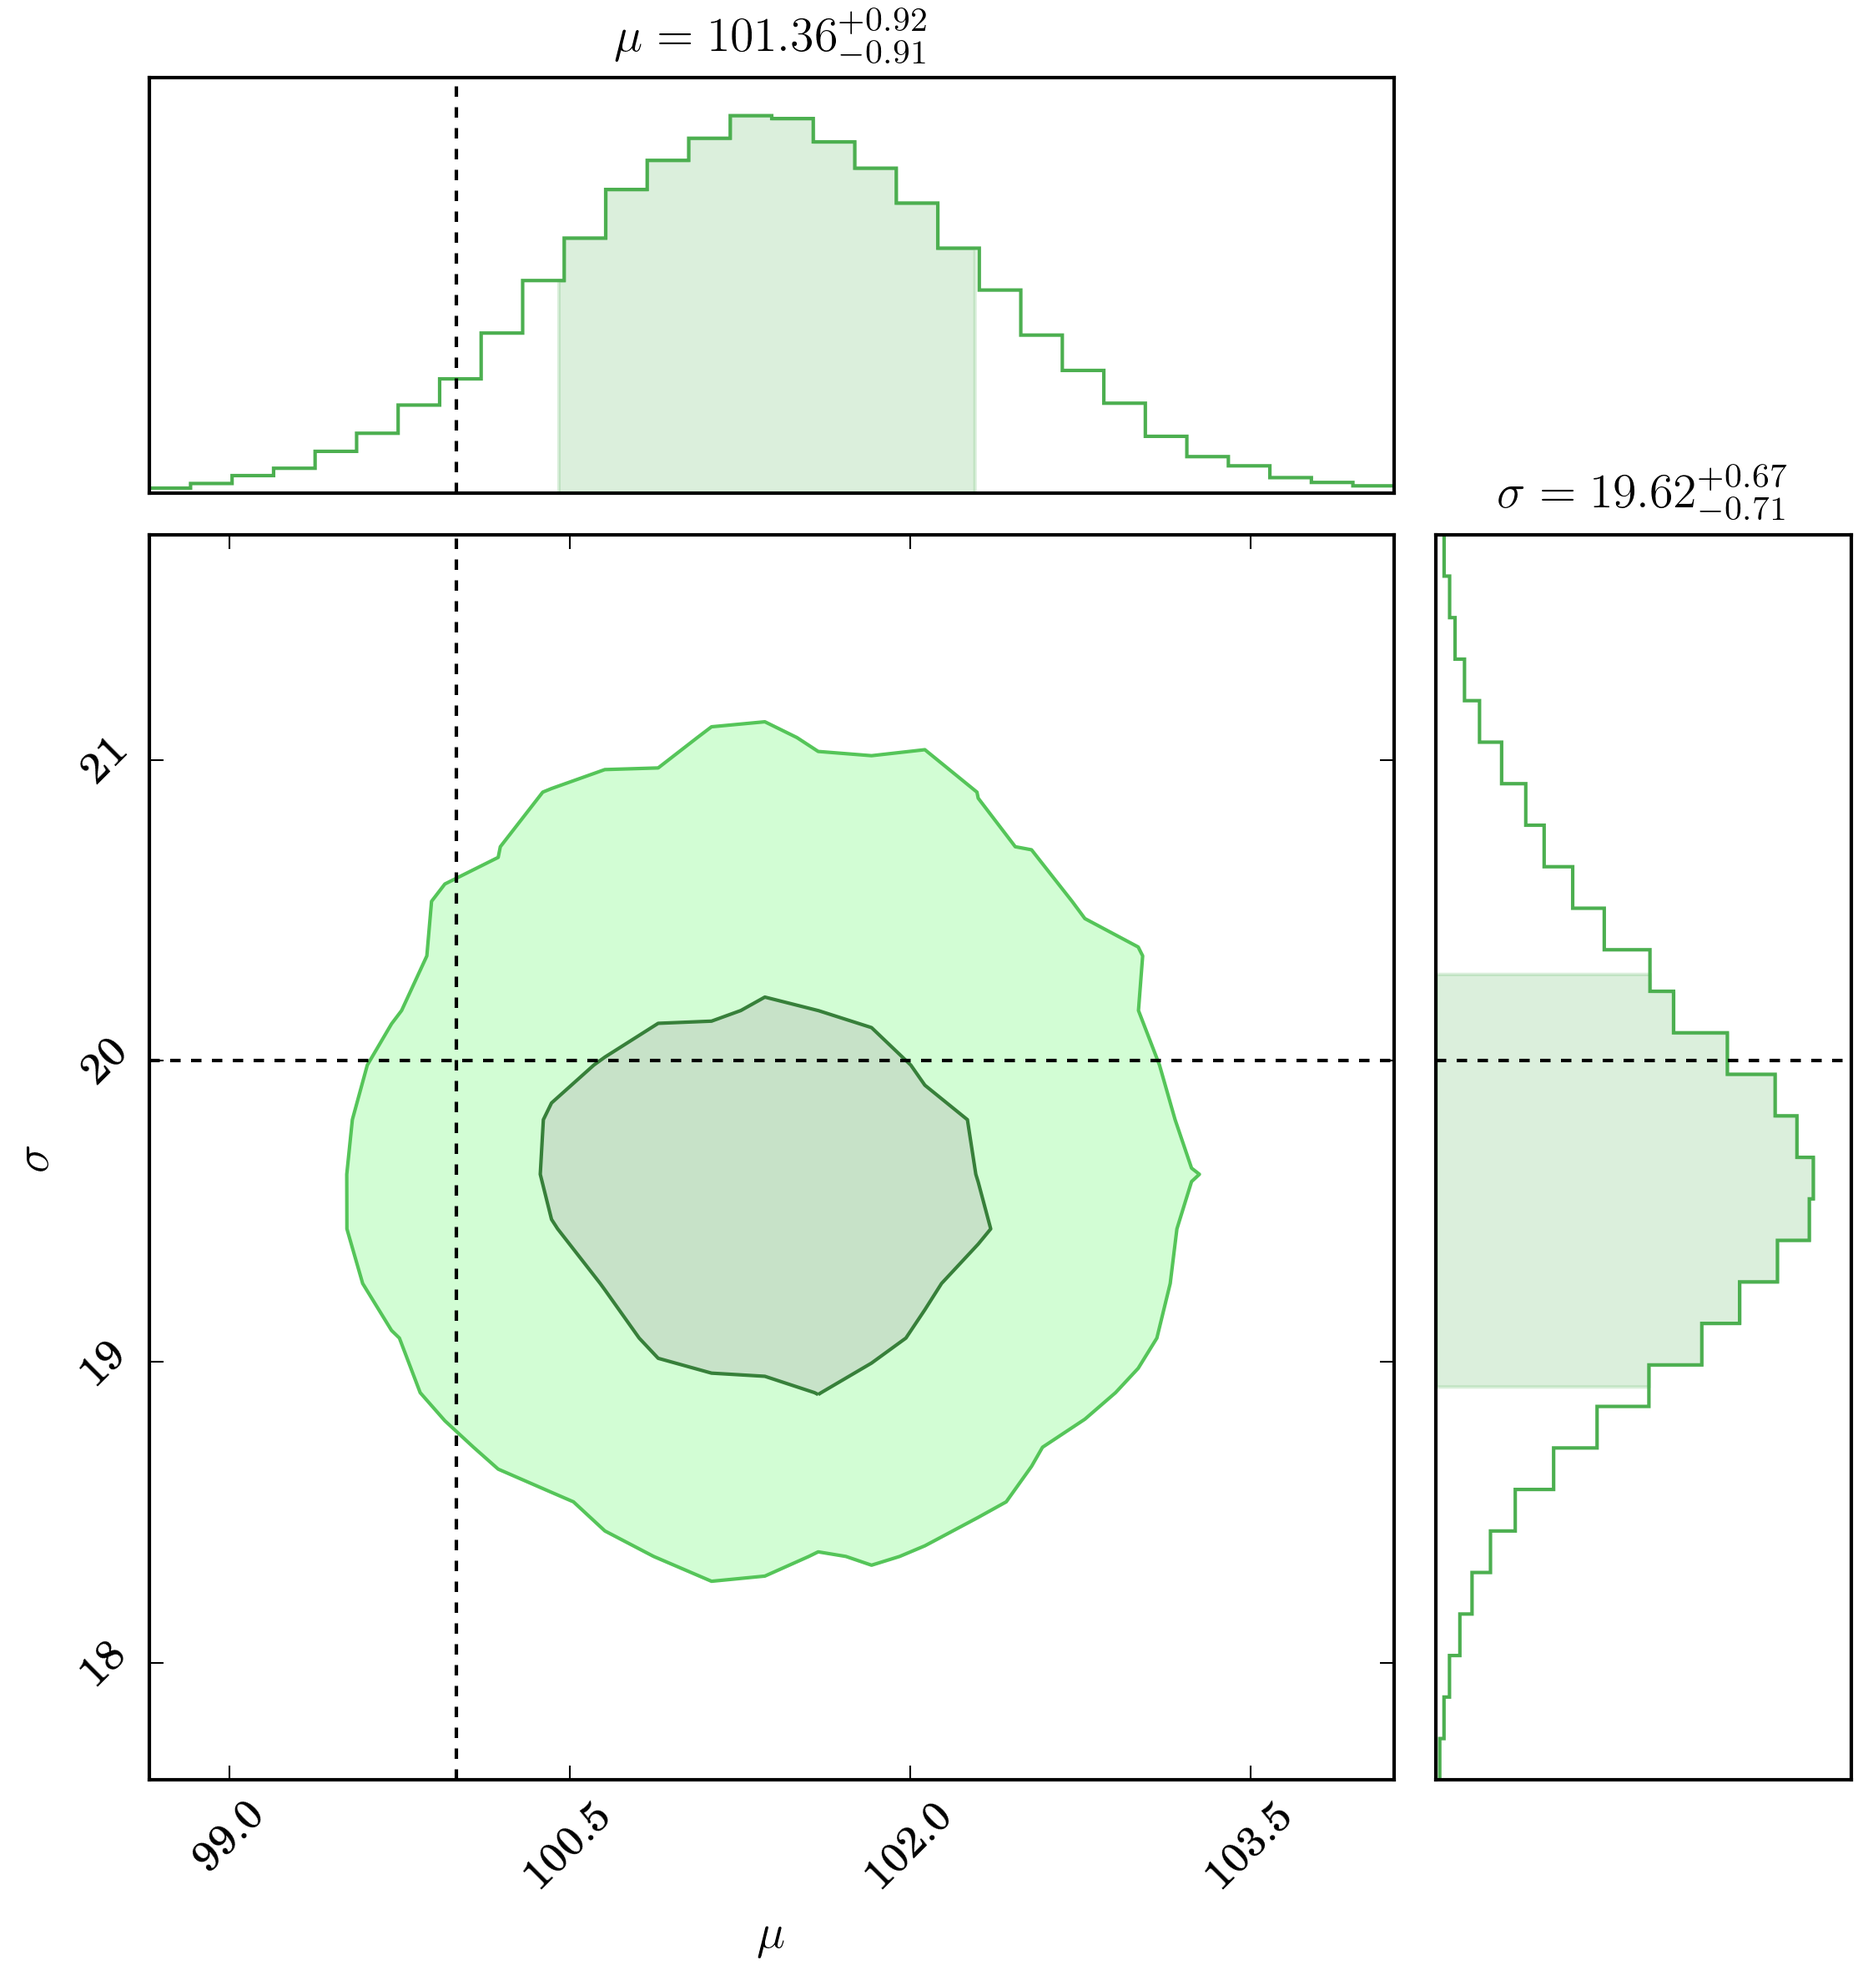
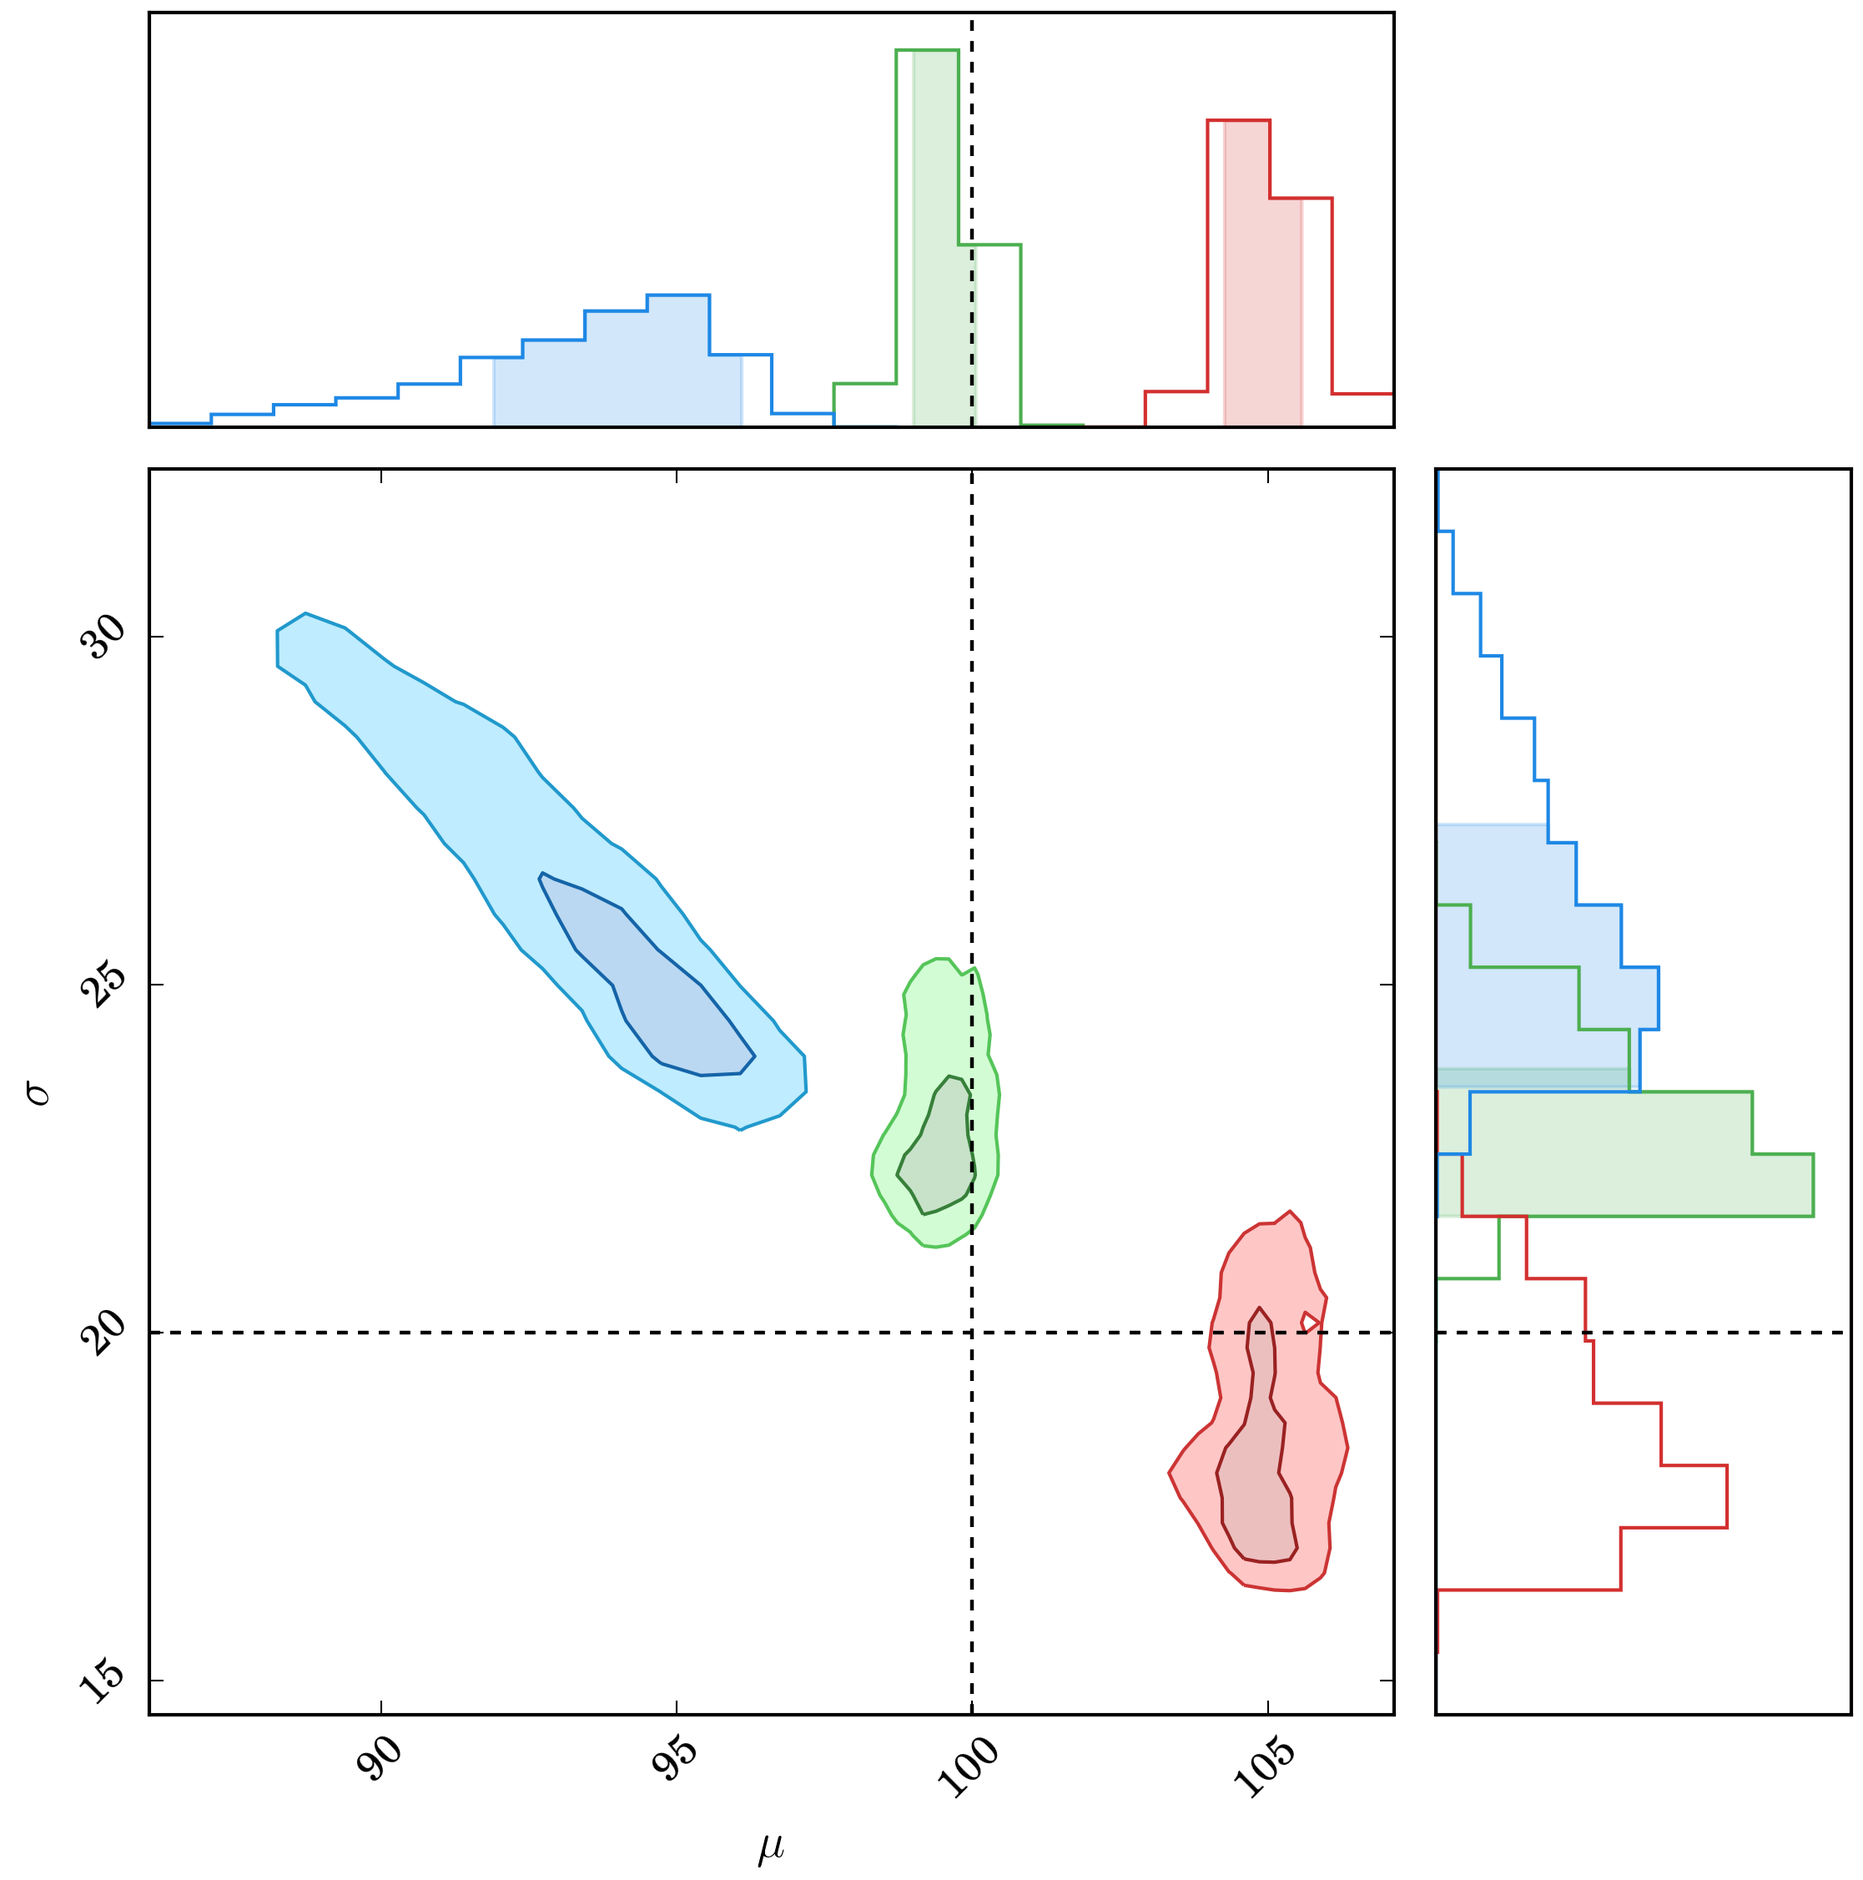
Time to crank the handle more on this one

diff --git a/dessn/models/test_efficiency_3/efficiency_model_3.py b/dessn/models/test_efficiency_3/efficiency_model_3.py
@@ -40,7 +40,7 @@ class ActualPoint(ParameterLatent):
         return data["data"]
 
     def get_suggestion_sigma(self, data):
-        return data["data_error"]
+        return 3 * data["data_error"]
 
 
 class ActualMean(ParameterUnderlying):
@@ -68,7 +68,7 @@ class ActualSigma(ParameterUnderlying):
         return np.std(data["data"])
 
     def get_suggestion_sigma(self, data):
-        return 0.5 * np.std(data["data"])
+        return np.std(data["data"])
 
     def get_suggestion_requirements(self):
         return ["data"]
@@ -160,7 +160,7 @@ class EfficiencyModelCorrected(Model):
         self.finalise()
 
 
-def get_data(seed=5, n=500):
+def get_data(seed=5, n=3000):
     np.random.seed(seed=seed)
     mean = 100.0
     std = 20.0
@@ -192,8 +192,8 @@ if __name__ == "__main__":
     v = Viewer([[80, 120], [10, 40]], parameters=[r"$\mu$", r"$\sigma$"], truth=[100, 20])
 
     n = 1
-    w = 8
-    colours = ["#4CAF50", "#D32F2F", "#1E88E5"] * n
+    w = 4
+    colours = ["#4CAF50", "#D32F2F", "#1E88E5"] * n * 2
 
     import matplotlib.pyplot as plt
     #
@@ -224,11 +224,10 @@ if __name__ == "__main__":
     # plt.show()
     # exit()
     for i in range(n):
-        i = 1
         mean, std, observed, errors, alpha, actual, uo, oe, am = get_data(seed=i)
-        theta = [mean, std] + am.tolist()
-        print(theta)
-        kwargs = {"num_steps": 100000, "num_burn": 80000, "save_interval": 300}
+        theta_good = [mean, std] + actual.tolist()
+        theta_bias = [mean, std] + am.tolist()
+        kwargs = {"num_steps": 6000, "num_burn": 6000, "save_interval": 300}
         sampler = BatchMetroploisHastings(num_walkers=w, kwargs=kwargs, temp_dir=t % i, num_cores=4)
         # sampler = MetropolisHastings(**kwargs, temp_dir=t % i)
         # sampler2 = EnsembleSampler(temp_dir=t % i)
@@ -236,21 +235,25 @@ if __name__ == "__main__":
 
         model_good = EfficiencyModelUncorrected(uo, oe, name="Good%d" % i)
         model_good.fit(sampler, chain_consumer=c)
-        # print("Good ", model_good.get_log_posterior(theta), c.chains[-1][-1, 0])
+        print("Good ", model_good.get_log_posterior(theta_good), c.posteriors[-1][-1])
 
-        # model_un = EfficiencyModelUncorrected(observed, errors, name="Uncorrected%d" % i)
-        # model_un.fit(sampler, chain_consumer=c)
-        # print("Uncorrected ", model_un.get_log_posterior(theta), c.chains[-1][-1, 0])
+        model_un = EfficiencyModelUncorrected(observed, errors, name="Uncorrected%d" % i)
+        model_un.fit(sampler, chain_consumer=c)
+        print("Uncorrected ", model_un.get_log_posterior(theta_bias), c.posteriors[-1][-1])
         #
-        # model_cor = EfficiencyModelCorrected(observed, errors, alpha, name="Corrected%d" % i)
-        # model_cor.fit(sampler, chain_consumer=c)
-        # print("Corrected ", model_cor.get_log_posterior(theta), c.chains[-1][-1, 0])
+        model_cor = EfficiencyModelCorrected(observed, errors, alpha, name="Corrected%d" % i)
+        model_cor.fit(sampler, chain_consumer=c)
+        print("Corrected ", model_cor.get_log_posterior(theta_bias), c.posteriors[-1][-1])
+
+        # model_good.fit(sampler3, chain_consumer=c, start=theta_good)
+        # model_un.fit(sampler3, chain_consumer=c, start=theta_bias)
+        # model_cor.fit(sampler3, chain_consumer=c, start=theta_bias)
 
     c.configure_bar(shade=True)
     c.configure_general(bins=1.0, colours=colours)
     c.configure_contour(sigmas=[0, 0.01, 1, 2], contourf=True, contourf_alpha=0.3)
-    c.plot(filename=plot_file, truth=theta, figsize=(8, 8), legend=False)
+    c.plot(filename=plot_file, truth=theta_bias, figsize=(8, 8), legend=False)
     for i in range(len(c.chains)):
         c.plot_walks(filename=walk_file % c.names[i], chain=i, truth=[mean, std])
         c.divide_chain(i, w).configure_general(rainbow=True) \
-            .plot(figsize=(8, 8), filename=plot_file.replace(".png", "_%s.png" % c.names[i]), truth=theta)
+            .plot(figsize=(8, 8), filename=plot_file.replace(".png", "_%s.png" % c.names[i]), truth=theta_bias)

diff --git a/dessn/framework/model.py b/dessn/framework/model.py
@@ -516,7 +516,7 @@ class Model(object):
 
         return pgm
 
-    def fit(self, sampler, chain_consumer=None, include_latent=False):
+    def fit(self, sampler, chain_consumer=None, include_latent=False, start=None):
         """
 
         Parameters
@@ -529,6 +529,9 @@ class Model(object):
         include_latent : bool, optional
             If set, return the latent parameters as well. Useful for debugging,
             but not recommended when speed is needed. Or memory. Or hard drive space.
+        start : list, optional
+            If given, starts the fitter from the given location (if applicable).
+            Useful for debugging.
 
         Returns
         -------
@@ -542,7 +545,7 @@ class Model(object):
                   "log_posterior": self.get_log_posterior,
                   "log_prior": self.get_log_prior,
                   "log_likelihood": self.get_log_likelihood,
-                  "start": self.get_starting_position,
+                  "start": self.get_starting_position if start is None else start,
                   "save_dims": len(self._theta_names) if include_latent else self._num_actual,
                   "hypercube": self.get_hypercube_convert,
                   "log_posterior_polychord": self.get_log_posterior_polychord,

diff --git a/dessn/framework/samplers/metropolisHastings.py b/dessn/framework/samplers/metropolisHastings.py
@@ -31,7 +31,7 @@ class MetropolisHastings(GenericSampler):
     """
     def __init__(self, num_burn=10000, num_steps=10000,
                  sigma_adjust=100, covariance_adjust=1000, temp_dir=None,
-                 save_interval=300, accept_ratio=0.4, callback=None):
+                 save_interval=300, accept_ratio=0.234, callback=None):
         self.temp_dir = temp_dir
         if temp_dir is not None and not os.path.exists(temp_dir):
             os.makedirs(temp_dir)
@@ -106,7 +106,7 @@ class MetropolisHastings(GenericSampler):
             self.logger.debug("Found chain of size %d" % chain.shape[0])
         position = self._ensure_position(position)
 
-        if chain is not None and burnin.shape[0] == self.num_burn:
+        if chain is not None and burnin is not None and burnin.shape[0] == self.num_burn:
             c, w, p = self._do_chain(position, covariance, chain=chain)
         else:
             position, covariance = self._do_burnin(position, burnin, covariance)

diff --git a/dessn/utility/viewer.py b/dessn/utility/viewer.py
@@ -17,7 +17,7 @@ class Viewer(object):
         self.points = None
         self.batch = batch
         self.batched = []
-        self.colours = cm.rainbow(np.linspace(0, 1, 30))
+        self.colours = cm.rainbow(np.linspace(0, 1, 20))
         self.index = 0
 
     def initialise(self, position):
